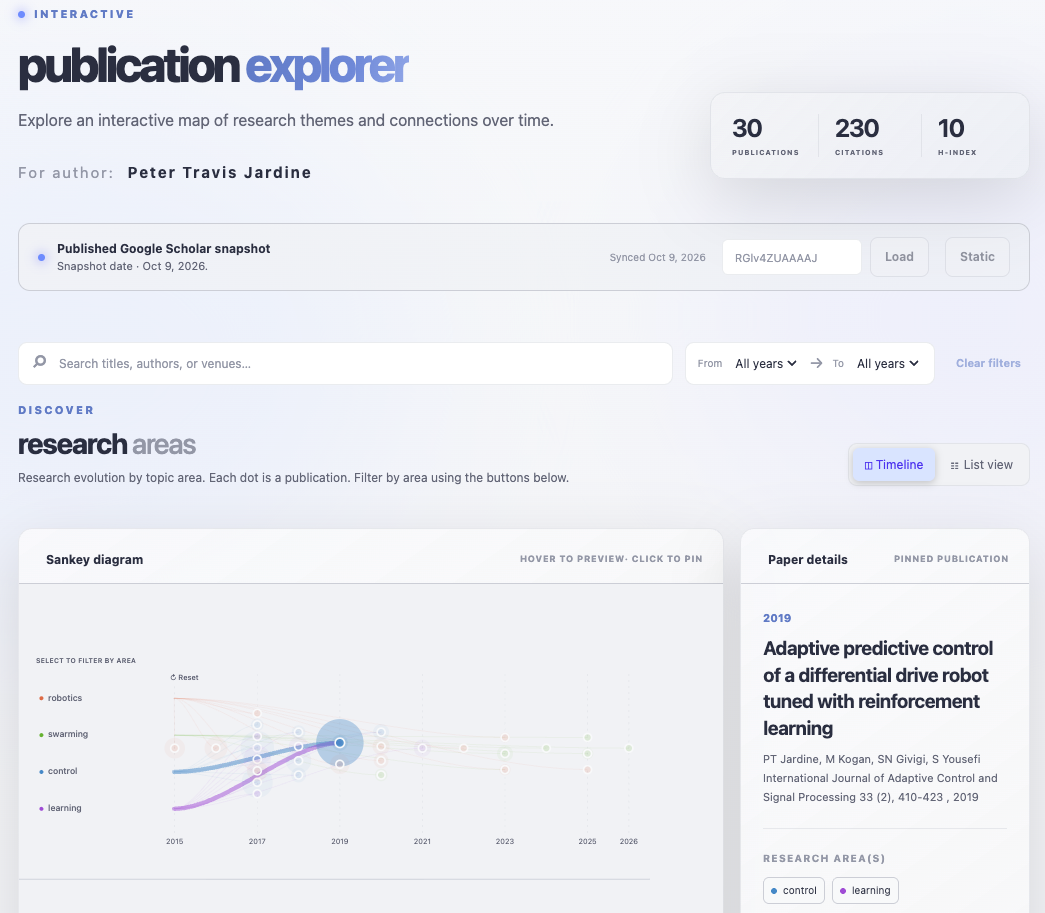
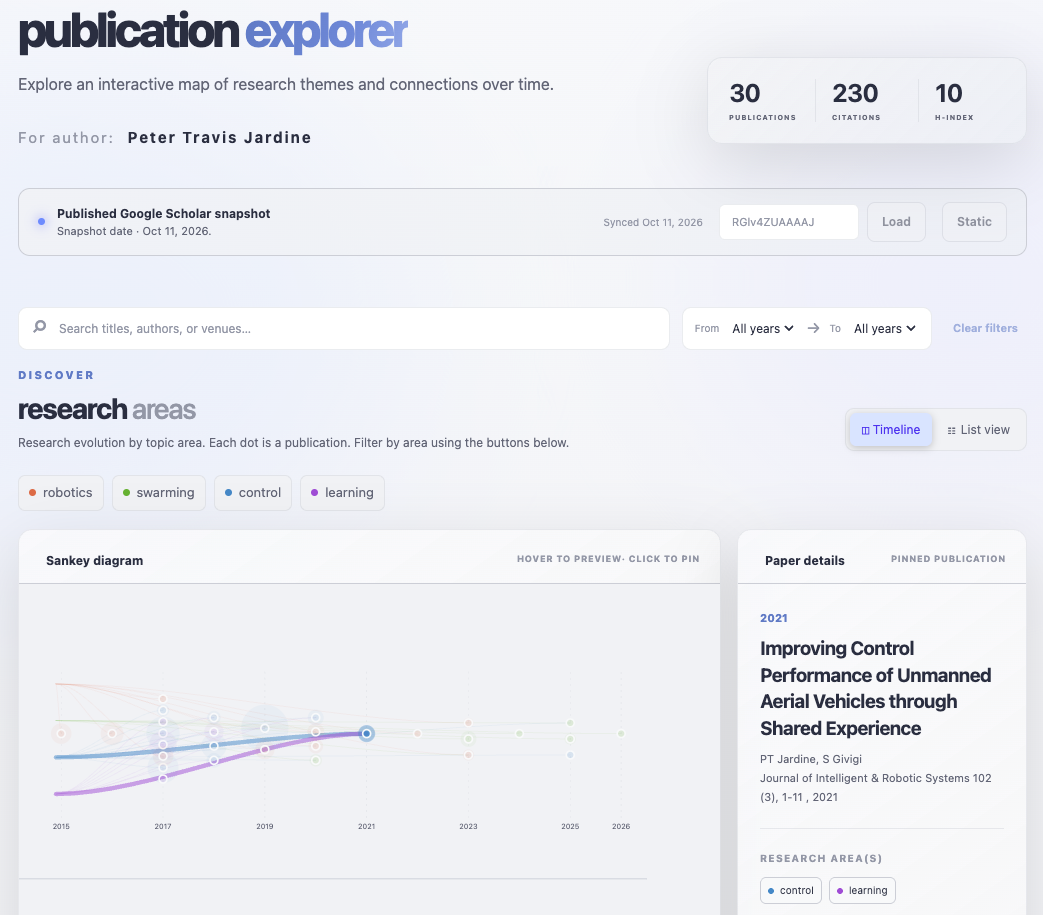
adjusted research area filter locations

diff --git a/dist/assets/app.js b/dist/assets/app.js
@@ -187,7 +187,14 @@
   }
   // Area filter management
   function renderAreaFilters() {
-    $('area-filters').innerHTML = '';
+    const container = $('area-filters');
+    const areas = state.payload?.areas || [];
+    const hasAnyFilter = state.activeAreas.size > 0;
+    
+    container.innerHTML = areas.map((a) => {
+      const isActive = state.activeAreas.has(a.id);
+      return `<button class="filter-chip ${isActive ? 'active' : ''} ${hasAnyFilter && !isActive ? 'faded' : ''}" type="button" data-filter="${escapeHtml(a.id)}" aria-pressed="${isActive}"><span class="chip-dot" style="--chip-color:${a.color}"></span>${escapeHtml(a.name)}</button>`;
+    }).join('');
   }
   // Toggle area filter on/off
   function activateFilter(id) {
@@ -198,7 +205,7 @@
     renderAll();
   }
 
-  // Render main Sankey diagram with papers, flows, and area filters
+  // Render main diagram with papers, flows, and area filters
   function renderTimeline() {
     const svg = $('atlas-svg');
     svg.replaceChildren();
@@ -206,8 +213,8 @@
     const papers = filteredPapers().filter((p) => Number.isInteger(p.year));
     const vals = years();
     $('visible-count').textContent = `${papers.length} of ${allPapers().length} publications`;
-    const W = 1050, L = 276, R = 1015, Y0 = 62, rowGap = 55;
-    const height = Math.max(350, 90 + rowGap * areas.length);
+    const W = 1050, L = 100, R = 1015, Y0 = 40, rowGap = 55;
+    const height = Math.max(350, 50 + rowGap * areas.length);
     svg.setAttribute('viewBox', `0 0 ${W} ${height}`);
     svg.setAttribute('aria-label', `${papers.length} publications between ${vals[0] || 'unknown'} and ${vals.at(-1) || 'unknown'}, grouped into ${areas.length} research areas`);
     if (!vals.length) {
@@ -223,116 +230,10 @@
     for (let year = vals[0]; year <= vals.at(-1); year++) {
       if ((year - vals[0]) % tickStep !== 0 && year !== vals.at(-1)) continue;
       const x = xScale(year);
-      append(svg, 'line', {x1:x, x2:x, y1:26, y2:yScale(areas.length-1)+36, class:'grid-line'});
+      append(svg, 'line', {x1:x, x2:x, y1:Y0-18, y2:yScale(areas.length-1)+36, class:'grid-line'});
       append(svg, 'text', {x, y:yScale(areas.length-1)+53, class:'year-label','text-anchor':'middle'}, year);
     }
     append(svg, 'line', {x1:18,x2:R,y1:height-18,y2:height-18,stroke:'#34516d','stroke-opacity':'.28'});
-    
-    areas.forEach((a,i) => {
-      const y = yScale(i);
-      const lanePapers = papers.filter((p) => p.areas.includes(a.id));
-      const isActive = state.activeAreas.has(a.id);
-      const hasAnyFilter = state.activeAreas.size > 0;
-      
-      const buttonGroup = append(svg, 'g', {class: 'area-filter-button', 'data-area': a.id, role: 'button', tabindex: 0, 'aria-label': `Filter ${a.name}`, 'aria-pressed': String(isActive), style: 'cursor:pointer'});
-      
-      // Button background 
-      const bgRect = append(buttonGroup, 'rect', {
-        x: 100,
-        y: y - 9,
-        width: 170,
-        height: 18,
-        rx: 5,
-        class: isActive ? 'filter-bg active' : (hasAnyFilter ? 'filter-bg faded' : 'filter-bg'),
-        fill: isActive ? '#dbeafe' : '#f3f4f6'
-      });
-      
-      // Colored dot indicator
-      append(buttonGroup, 'circle', {
-        cx: 108,
-        cy: y,
-        r: 3,
-        fill: a.color
-      });
-      
-      // Text label with truncation
-      const labelText = append(buttonGroup, 'text', {
-        x: 118,
-        y: y + 3.5,
-        class: 'area-label-text',
-        fill: isActive ? '#1e40af' : '#6b7280',
-        'font-size': '13px',
-        'font-weight': isActive ? '650' : '500'
-      }, a.name);
-      
-      // Truncate text if too long
-      if (a.name.length > 20) {
-        labelText.textContent = a.name.substring(0, 17) + '…';
-      }
-      
-      // Event handlers
-      buttonGroup.addEventListener('click', () => activateFilter(a.id));
-      buttonGroup.addEventListener('keydown', (event) => { 
-        if(event.key === 'Enter' || event.key === ' ') {
-          event.preventDefault();
-          activateFilter(a.id);
-        } 
-      });
-    });
-
-    // Add instruction text at top left
-    append(svg, 'text', {
-      x: 100,
-      y: Y0 - 52,
-      class: 'filter-instruction-text',
-      fill: '#6b7280',
-      'font-size': '10px',
-      'font-weight': '600',
-      'letter-spacing': '0.4px',
-      'text-transform': 'uppercase'
-    }, 'SELECT TO FILTER BY AREA');
-
-    // Add reset button below instruction text
-    const resetButtonGroup = append(svg, 'g', {class: 'area-filter-button reset-button', role: 'button', tabindex: 0, 'aria-label': 'Reset to default view', style: 'cursor:pointer'});
-    
-    append(resetButtonGroup, 'rect', {
-      x: 90 + 200,
-      y: Y0 - 40,
-      width: 80,
-      height: 18,
-      rx: 5,
-      fill: '#f3f4f6'
-    });
-    
-    append(resetButtonGroup, 'text', {
-      x: 100 + 200,
-      y: Y0 - 40 + 13,
-      class: 'area-label-text',
-      fill: '#6b7280',
-      'font-size': '11px',
-      'font-weight': '500'
-    }, '↻ Reset');
-    
-    resetButtonGroup.addEventListener('click', () => {
-      state.search = '';
-      state.minYear = null;
-      state.maxYear = null;
-      state.activeAreas.clear();
-      state.expanded = false;
-      state.selectedId = null;
-      state.hoverId = null;
-      $('search').value = '';
-      $('year-from').value = '';
-      $('year-to').value = '';
-      renderAll();
-    });
-    
-    resetButtonGroup.addEventListener('keydown', (event) => {
-      if (event.key === 'Enter' || event.key === ' ') {
-        event.preventDefault();
-        resetButtonGroup.dispatchEvent(new MouseEvent('click'));
-      }
-    });
 
     // Position papers centrally in a timeline, with connections flowing to research areas
     const centerY = yScale(areas.length / 2 - 0.5);

diff --git a/web/assets/app.js b/web/assets/app.js
@@ -187,7 +187,14 @@
   }
   // Area filter management
   function renderAreaFilters() {
-    $('area-filters').innerHTML = '';
+    const container = $('area-filters');
+    const areas = state.payload?.areas || [];
+    const hasAnyFilter = state.activeAreas.size > 0;
+    
+    container.innerHTML = areas.map((a) => {
+      const isActive = state.activeAreas.has(a.id);
+      return `<button class="filter-chip ${isActive ? 'active' : ''} ${hasAnyFilter && !isActive ? 'faded' : ''}" type="button" data-filter="${escapeHtml(a.id)}" aria-pressed="${isActive}"><span class="chip-dot" style="--chip-color:${a.color}"></span>${escapeHtml(a.name)}</button>`;
+    }).join('');
   }
   // Toggle area filter on/off
   function activateFilter(id) {
@@ -198,7 +205,7 @@
     renderAll();
   }
 
-  // Render main Sankey diagram with papers, flows, and area filters
+  // Render main diagram with papers, flows, and area filters
   function renderTimeline() {
     const svg = $('atlas-svg');
     svg.replaceChildren();
@@ -206,8 +213,8 @@
     const papers = filteredPapers().filter((p) => Number.isInteger(p.year));
     const vals = years();
     $('visible-count').textContent = `${papers.length} of ${allPapers().length} publications`;
-    const W = 1050, L = 276, R = 1015, Y0 = 62, rowGap = 55;
-    const height = Math.max(350, 90 + rowGap * areas.length);
+    const W = 1050, L = 100, R = 1015, Y0 = 40, rowGap = 55;
+    const height = Math.max(350, 50 + rowGap * areas.length);
     svg.setAttribute('viewBox', `0 0 ${W} ${height}`);
     svg.setAttribute('aria-label', `${papers.length} publications between ${vals[0] || 'unknown'} and ${vals.at(-1) || 'unknown'}, grouped into ${areas.length} research areas`);
     if (!vals.length) {
@@ -223,116 +230,10 @@
     for (let year = vals[0]; year <= vals.at(-1); year++) {
       if ((year - vals[0]) % tickStep !== 0 && year !== vals.at(-1)) continue;
       const x = xScale(year);
-      append(svg, 'line', {x1:x, x2:x, y1:26, y2:yScale(areas.length-1)+36, class:'grid-line'});
+      append(svg, 'line', {x1:x, x2:x, y1:Y0-18, y2:yScale(areas.length-1)+36, class:'grid-line'});
       append(svg, 'text', {x, y:yScale(areas.length-1)+53, class:'year-label','text-anchor':'middle'}, year);
     }
     append(svg, 'line', {x1:18,x2:R,y1:height-18,y2:height-18,stroke:'#34516d','stroke-opacity':'.28'});
-    
-    areas.forEach((a,i) => {
-      const y = yScale(i);
-      const lanePapers = papers.filter((p) => p.areas.includes(a.id));
-      const isActive = state.activeAreas.has(a.id);
-      const hasAnyFilter = state.activeAreas.size > 0;
-      
-      const buttonGroup = append(svg, 'g', {class: 'area-filter-button', 'data-area': a.id, role: 'button', tabindex: 0, 'aria-label': `Filter ${a.name}`, 'aria-pressed': String(isActive), style: 'cursor:pointer'});
-      
-      // Button background 
-      const bgRect = append(buttonGroup, 'rect', {
-        x: 100,
-        y: y - 9,
-        width: 170,
-        height: 18,
-        rx: 5,
-        class: isActive ? 'filter-bg active' : (hasAnyFilter ? 'filter-bg faded' : 'filter-bg'),
-        fill: isActive ? '#dbeafe' : '#f3f4f6'
-      });
-      
-      // Colored dot indicator
-      append(buttonGroup, 'circle', {
-        cx: 108,
-        cy: y,
-        r: 3,
-        fill: a.color
-      });
-      
-      // Text label with truncation
-      const labelText = append(buttonGroup, 'text', {
-        x: 118,
-        y: y + 3.5,
-        class: 'area-label-text',
-        fill: isActive ? '#1e40af' : '#6b7280',
-        'font-size': '13px',
-        'font-weight': isActive ? '650' : '500'
-      }, a.name);
-      
-      // Truncate text if too long
-      if (a.name.length > 20) {
-        labelText.textContent = a.name.substring(0, 17) + '…';
-      }
-      
-      // Event handlers
-      buttonGroup.addEventListener('click', () => activateFilter(a.id));
-      buttonGroup.addEventListener('keydown', (event) => { 
-        if(event.key === 'Enter' || event.key === ' ') {
-          event.preventDefault();
-          activateFilter(a.id);
-        } 
-      });
-    });
-
-    // Add instruction text at top left
-    append(svg, 'text', {
-      x: 100,
-      y: Y0 - 52,
-      class: 'filter-instruction-text',
-      fill: '#6b7280',
-      'font-size': '10px',
-      'font-weight': '600',
-      'letter-spacing': '0.4px',
-      'text-transform': 'uppercase'
-    }, 'SELECT TO FILTER BY AREA');
-
-    // Add reset button below instruction text
-    const resetButtonGroup = append(svg, 'g', {class: 'area-filter-button reset-button', role: 'button', tabindex: 0, 'aria-label': 'Reset to default view', style: 'cursor:pointer'});
-    
-    append(resetButtonGroup, 'rect', {
-      x: 90 + 200,
-      y: Y0 - 40,
-      width: 80,
-      height: 18,
-      rx: 5,
-      fill: '#f3f4f6'
-    });
-    
-    append(resetButtonGroup, 'text', {
-      x: 100 + 200,
-      y: Y0 - 40 + 13,
-      class: 'area-label-text',
-      fill: '#6b7280',
-      'font-size': '11px',
-      'font-weight': '500'
-    }, '↻ Reset');
-    
-    resetButtonGroup.addEventListener('click', () => {
-      state.search = '';
-      state.minYear = null;
-      state.maxYear = null;
-      state.activeAreas.clear();
-      state.expanded = false;
-      state.selectedId = null;
-      state.hoverId = null;
-      $('search').value = '';
-      $('year-from').value = '';
-      $('year-to').value = '';
-      renderAll();
-    });
-    
-    resetButtonGroup.addEventListener('keydown', (event) => {
-      if (event.key === 'Enter' || event.key === ' ') {
-        event.preventDefault();
-        resetButtonGroup.dispatchEvent(new MouseEvent('click'));
-      }
-    });
 
     // Position papers centrally in a timeline, with connections flowing to research areas
     const centerY = yScale(areas.length / 2 - 0.5);

diff --git a/dist/index.html b/dist/index.html
@@ -57,7 +57,7 @@
       <div id="area-filters" class="area-filters" role="group" aria-label="Filter by research area"></div>
       <div class="visual-grid">
         <div class="panel timeline-panel" id="timeline-panel">
-          <div class="panel-head"><span><span class="panel-icon"></span> Sankey diagram</span><span class="minor-label">HOVER TO PREVIEW· CLICK TO PIN</span></div>
+          <div class="panel-head"><span><span class="panel-icon"></span> Timeline</span><span class="minor-label">HOVER TO PREVIEW· CLICK TO PIN</span></div>
           <div class="svg-viewport" id="graph-container"><svg id="atlas-svg" viewBox="0 0 1050 505" role="img" aria-label="Publications grouped by research area and year"></svg><div id="chart-tooltip" class="chart-tooltip" role="tooltip" hidden></div></div>
           <div class="chart-footnote"><span><i class="connection-swatch"></i> When selected, dots are sized relative to citation count.</span><span id="visible-count">—</span></div>
         </div>

diff --git a/web/index.html b/web/index.html
@@ -57,7 +57,7 @@
       <div id="area-filters" class="area-filters" role="group" aria-label="Filter by research area"></div>
       <div class="visual-grid">
         <div class="panel timeline-panel" id="timeline-panel">
-          <div class="panel-head"><span><span class="panel-icon"></span> Sankey diagram</span><span class="minor-label">HOVER TO PREVIEW· CLICK TO PIN</span></div>
+          <div class="panel-head"><span><span class="panel-icon"></span> Timeline</span><span class="minor-label">HOVER TO PREVIEW· CLICK TO PIN</span></div>
           <div class="svg-viewport" id="graph-container"><svg id="atlas-svg" viewBox="0 0 1050 505" role="img" aria-label="Publications grouped by research area and year"></svg><div id="chart-tooltip" class="chart-tooltip" role="tooltip" hidden></div></div>
           <div class="chart-footnote"><span><i class="connection-swatch"></i> When selected, dots are sized relative to citation count.</span><span id="visible-count">—</span></div>
         </div>
